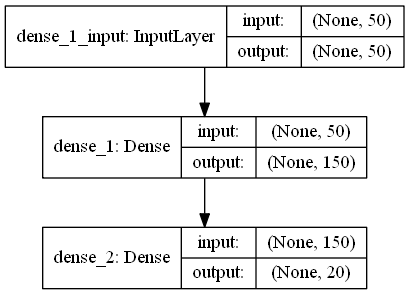
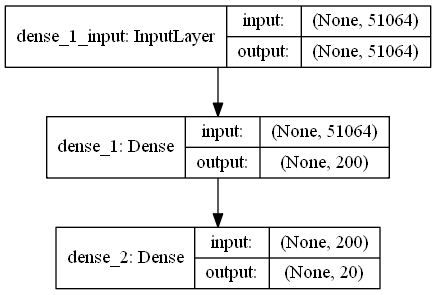
More nnet stuff, also added single space to the single dir

diff --git a/src/pipelines/pipeline_single_dir.py b/src/pipelines/pipeline_single_dir.py
@@ -249,7 +249,7 @@ def direction_pipeline(dct_unchanged, dct, bow, dir_min_freq, dir_max_freq, file
 
 def main(data_type, raw_folder, processed_folder,proj_folder="",  grams=0, model_type="LinearSVM", dir_min_freq=0.001,
          dir_max_freq=0.95, dev_percent=0.2, score_metric="avg_f1", max_depth=None, multiclass="OVR", LR=False, bonus_fn="",
-         rewrite_all = False, hp_top_freq=None, hp_top_dir=None):
+         rewrite_all = False, hp_top_freq=None, hp_top_dir=None, use_space=None, use_space_name=None):
     pipeline_fn = "num_stw"
     if data_type == "newsgroups":
         name_of_class = ["Newsgroups"]
@@ -417,6 +417,8 @@ def main(data_type, raw_folder, processed_folder,proj_folder="",  grams=0, model
                     print("WARNING, bonus fn active")
                 if LR:
                     final_fn = pipeline_fn + "_LR_"+ space_names[s]
+                elif use_space is not None:
+                    final_fn = pipeline_fn + "_US_"+ use_space_name
                 else:
                     final_fn = pipeline_fn + "_"+ space_names[s]
 
@@ -432,20 +434,34 @@ def main(data_type, raw_folder, processed_folder,proj_folder="",  grams=0, model
                 dct = p_corpus.getBowDct()
                 dct_unchanged = p_corpus.getBowDct()
 
-                if data_type == "movies" or data_type == "placetypes":
-                    if len(spaces[s][0]) == 200 and "MDS" in space_names[s]:
-                        classifier_fn = final_fn + "_" + name_of_class[i] + "_" + multiclass
-                        tsrd = pipeline(final_fn, spaces[s], bow, dct, classes, class_names, word_list, processed_folder, dims, kfold_hpam_dict, hpam_dict,
-                     model_type=model_type, dev_percent=dev_percent, rewrite_all="2019 11 20 15 19", remove_stop_words=True,
-                     score_metric=score_metric, auroc=False, dir_min_freq=dir_min_freq, dir_max_freq=dir_max_freq, name_of_class=name_of_class[ci], classifier_fn = classifier_fn,
-                                 mcm=multi_class_method, ppmi=ppmi_unf_matrix, dct_unchanged=dct_unchanged, pipeline_hpam_dict=pipeline_hpam_dict, space_name=space_names[s], data_type=data_type)
-                else:
-
+                if use_space is not None:
                     classifier_fn = pipeline_fn + "_" + multiclass
-                    tsrd = pipeline(final_fn, spaces[s], bow, dct, classes, class_names, word_list, processed_folder, dims, kfold_hpam_dict, hpam_dict,
-                     model_type=model_type, dev_percent=dev_percent, rewrite_all=rewrite_all, remove_stop_words=True,
-                     score_metric=score_metric, auroc=False, dir_min_freq=dir_min_freq, dir_max_freq=dir_max_freq, name_of_class=name_of_class[ci], classifier_fn = classifier_fn,
-                             mcm=multi_class_method, ppmi=ppmi_unf_matrix, dct_unchanged=dct_unchanged, pipeline_hpam_dict=pipeline_hpam_dict, space_name=space_names[s], data_type=data_type)
+                    tsrd = pipeline(final_fn, use_space, bow, dct, classes, class_names, word_list, processed_folder,
+                                    dims, kfold_hpam_dict, hpam_dict,
+                                    model_type=model_type, dev_percent=dev_percent, rewrite_all=rewrite_all,
+                                    remove_stop_words=True,
+                                    score_metric=score_metric, auroc=False, dir_min_freq=dir_min_freq,
+                                    dir_max_freq=dir_max_freq, name_of_class=name_of_class[ci],
+                                    classifier_fn=classifier_fn,
+                                    mcm=multi_class_method, ppmi=ppmi_unf_matrix, dct_unchanged=dct_unchanged,
+                                    pipeline_hpam_dict=pipeline_hpam_dict, space_name=use_space_name,
+                                    data_type=data_type)
+                    exit()
+                else:
+                    if data_type == "movies" or data_type == "placetypes":
+                        if len(spaces[s][0]) == 200 and "MDS" in space_names[s]:
+                            classifier_fn = final_fn + "_" + name_of_class[i] + "_" + multiclass
+                            tsrd = pipeline(final_fn, spaces[s], bow, dct, classes, class_names, word_list, processed_folder, dims, kfold_hpam_dict, hpam_dict,
+                         model_type=model_type, dev_percent=dev_percent, rewrite_all="2019 11 20 15 19", remove_stop_words=True,
+                         score_metric=score_metric, auroc=False, dir_min_freq=dir_min_freq, dir_max_freq=dir_max_freq, name_of_class=name_of_class[ci], classifier_fn = classifier_fn,
+                                     mcm=multi_class_method, ppmi=ppmi_unf_matrix, dct_unchanged=dct_unchanged, pipeline_hpam_dict=pipeline_hpam_dict, space_name=space_names[s], data_type=data_type)
+                    else:
+
+                        classifier_fn = pipeline_fn + "_" + multiclass
+                        tsrd = pipeline(final_fn, spaces[s], bow, dct, classes, class_names, word_list, processed_folder, dims, kfold_hpam_dict, hpam_dict,
+                         model_type=model_type, dev_percent=dev_percent, rewrite_all=rewrite_all, remove_stop_words=True,
+                         score_metric=score_metric, auroc=False, dir_min_freq=dir_min_freq, dir_max_freq=dir_max_freq, name_of_class=name_of_class[ci], classifier_fn = classifier_fn,
+                                 mcm=multi_class_method, ppmi=ppmi_unf_matrix, dct_unchanged=dct_unchanged, pipeline_hpam_dict=pipeline_hpam_dict, space_name=space_names[s], data_type=data_type)
 
                 tsrds.append(tsrd)
         # Make the combined CSV of all the dims of all the space types
@@ -460,32 +476,35 @@ def main(data_type, raw_folder, processed_folder,proj_folder="",  grams=0, model
 
 if __name__ == '__main__':
     classifiers = ["LinearSVM", "DecisionTree1", "DecisionTree2", "DecisionTree3"]
-    data_types = [ "placetypes"]#""newsgroups", "reuters", "sentiment"] #,
+    data_types = [ "newsgroups"]#""newsgroups", "reuters", "sentiment"] #,
     doLR = False
     dminf = -1
     dmanf = -1
-
+    """
     x = np.load("../../data\processed\placetypes/rank/fil/num_stw_num_stw_200_MDS_ndcg_1000_5000_0_rank.npy")
-
+    """
     mcm = "OVR"
     bonus_fn = ""
     rewrite_all = False
+    use_space = np.load("E:\PhD\Code\ThesisPipeline\ThesisPipeline\data\processed/newsgroups\mln\mln/"
+                        "num_stw_ppmi_Dev_6223MClass_Balanced_5_Activ_relu_Dropout_0.5_Hsize_500_mlnrep.npy")
+    use_space_name = "5_Activ_relu_Dropout_0.5_Hsize_500_mlnrep"
     for j in range(len(data_types)):
         if data_types[j] == "placetypes":
-            hp_top_freq = [5000, 10000, 20000]
-            hp_top_dir = [1000, 2000]
+            hp_top_freq = [10000]
+            hp_top_dir = [2000]
         elif data_types[j] == "reuters":
-            hp_top_freq = [5000, 10000, 20000]
-            hp_top_dir = [1000, 2000]
+            hp_top_freq = [10000]
+            hp_top_dir = [2000]
         elif data_types[j] == "sentiment":
-            hp_top_freq = [5000, 10000, 20000]
-            hp_top_dir = [1000, 2000]
+            hp_top_freq = [10000]
+            hp_top_dir = [2000]
         elif data_types[j] == "newsgroups":
-            hp_top_freq = [ 5000, 10000, 20000]
-            hp_top_dir = [ 1000, 2000]
+            hp_top_freq = [10000]
+            hp_top_dir = [2000]
         elif data_types[j] == "movies":
-            hp_top_freq = [5000, 10000, 20000]
-            hp_top_dir = [1000, 2000]
+            hp_top_freq = [10000]
+            hp_top_dir = [2000]
         for i in range(len(classifiers)):
             if "1" in classifiers[i]:
                 max_depths = 1
@@ -498,4 +517,4 @@ if __name__ == '__main__':
             main(data_types[j], "../../data/raw/"+data_types[j]+"/",  "../../data/processed/"+data_types[j]+"/", proj_folder="../../data/proj/"+data_types[j]+"/",
                                     grams=0, model_type=classifiers[i], dir_min_freq=dminf, dir_max_freq=dmanf, dev_percent=0.2,
                                     score_metric="avg_f1", max_depth=max_depths, multiclass=mcm, LR=doLR, bonus_fn=bonus_fn, rewrite_all=rewrite_all,
-                 hp_top_dir=hp_top_dir, hp_top_freq=hp_top_freq)
+                 hp_top_dir=hp_top_dir, hp_top_freq=hp_top_freq, use_space=use_space, use_space_name=use_space_name)

diff --git a/tex - Copy/chapter5.tex b/tex - Copy/chapter5.tex
@@ -133,7 +133,7 @@ When obtaining the directions, we set the frequency cut-off to the top 10,000 wo
 
 We investigate the task using the newsgroups as it gives a good example of a representation that contains many different concepts and aspects of domain knowledge, as well as a well defined classification task that if achieved well on clearly demonstrates the representation contains a good amount of information in the domain. The place-types task does not contain too many entities, making it unreliable for neural network training and the reuters task has similar problems. One alternative would be the movies domain, but as identifying the genres of movies is functionally similar to the newsgroups task, we assume that any results found for the newsgroups can easily generalize to any classification task.
 
-To learn the feed-forward networks, we take the highest performing representation found in Table \ref{bg:repsresults} for depth-3 decision trees and use them as input representations.  For the newsgroups, this is the size 100 Doc2Vec space. Then, we set the hidden-layer to be the same size as the input representation and use a non-linear activation function.  The reasoning behind this is twofold: First, we can assume that the representation that performs well on depth-three decision trees contain good interpretable concepts that can be meaningfully adjusted by the network, and second that this allows for easy comparison between the original representation and the representation taken from the hidden layer of the network. These feedforward networks are simple, but do achieve stronger results than the linear SVM. These act as a "baseline network", by which we can see how fundamentally the most simple neural network representation may work. 
+To learn the feed-forward networks, we take the highest performing representation found in Table \ref{bg:repsresults} for clusters on depth-3 decision trees and use them as input representations.   For the newsgroups, this is the size 100 Doc2Vec space. Then, we set the hidden-layer to be the same size as the input representation and use a non-linear activation function.  The reasoning behind this is twofold: First, we can assume that the representation that performs well on depth-three decision trees contain good interpretable concepts that can be meaningfully adjusted by the network, and second that this allows for easy comparison between the original representation and the representation taken from the hidden layer of the network. These feedforward networks are simple, but do achieve stronger results than the linear SVM. These act as a "baseline network", by which we can see how fundamentally the most simple neural network representation may work. 
 
 The primary difference between the linear SVM results and the results achieved using this neural network is that the neural network used is multi-label, meaning that all of the classification objectives are trained at the same time. Following results showing that simple neural networks can still perform well on text classification without needing a complex architecture  \cite{Lakhotia2018} \cite{Nam2014}, we use a neural network with the following changes: Cross-entropy loss, Adagrad trainer with default parameters, Dropout, Softmax activation on the output layer, ReLu or tanH activation function. We tune the network for the following values: 
 

diff --git a/src/model/mln.py b/src/model/mln.py
@@ -13,6 +13,7 @@ from keras.callbacks import TensorBoard
 from keras.initializers import Identity, Zeros, Ones, Constant, Orthogonal
 from keras.utils.vis_utils import plot_model
 from util import nnet
+from scipy import sparse
 import os
 class MultiLabelNetwork(Method.ModelMethod):
     max_features = None
@@ -61,13 +62,22 @@ class MultiLabelNetwork(Method.ModelMethod):
     def process(self):
         self.model = Sequential()
 
+        x_train_dim = len(self.x_train[0])
+        """
+        # If it's sparse
+        if(len(self.x_train[0])) > 10000:
+            x_train_dim = len(self.x_train[0])
+            x_test_dim = len(self.x_test[0])
+            self.x_train = sparse.csr_matrix(self.x_train)
+            self.x_test  = sparse.csr_matrix(self.x_test)
+        """
         if self.hidden_layer_size < 100:
-            hidden_size = int(len(self.x_train[0]) * self.hidden_layer_size)
+            hidden_size = int(x_train_dim * self.hidden_layer_size)
         else:
             hidden_size = self.hidden_layer_size
         print("Hidden layer")
         self.model.add(
-            Dense(output_dim=hidden_size, input_dim=len(self.x_train[0]), activation=self.activation_function,
+            Dense(output_dim=hidden_size, input_dim=x_train_dim, activation=self.activation_function,
                   init="glorot_uniform"))
 
         #self.model.add(Dropout(rate=self.dropout))
@@ -85,7 +95,8 @@ class MultiLabelNetwork(Method.ModelMethod):
 
         # self.ppmi_boc.transpose()
         self.model.fit(self.x_train, self.y_train, nb_epoch=self.epoch, batch_size=self.batch_size, verbose=1)
-        self.hidden_layer_rep.value = nnet.getFirstLayer(self.model, self.space)
+        if self.get_rep:
+            self.hidden_layer_rep.value = nnet.getFirstLayer(self.model, self.space)
 
         self.test_proba.value = self.model.predict(self.x_test)
         self.test_predictions.value = nnet.probaToBinary(self.test_proba.value)

diff --git a/src/pipelines/pipeline_feedforward_network.py b/src/pipelines/pipeline_feedforward_network.py
@@ -136,10 +136,10 @@ def main(data_type, raw_folder, processed_folder, proj_folder="", grams=0, model
     min_samples_split = [2]
 
 
-    epoch = [100, 200, 300]
+    epoch = [100, 200, 300, 400]
     activation_function = ["relu", "tanh"]
     dropout = [0.1, 0.25, 0.5, 0.75]
-    hidden_layer_size = [0.5, 1,  2, 3]
+    hidden_layer_size = [0.5, 1,  2, 3, 4]
 
 
     # Run a pipeline that retains numbers and removes stopwords
@@ -392,8 +392,13 @@ def main(data_type, raw_folder, processed_folder, proj_folder="", grams=0, model
                                   "use_weights": use_weights}
 
             if use_bow is True:
-                space = bow
-                kfold_hpam_dict["hidden_layer_size"] = [1000, 500, 200]
+
+                space_names[i][j] = "num_stw_ppmi"
+                space = sp.load_npz("E:\PhD\Code\ThesisPipeline\ThesisPipeline\data\processed/newsgroups/bow/"+space_names[i][j]+".npz").toarray()
+                kfold_hpam_dict["hidden_layer_size"] = [500,200,100]
+                kfold_hpam_dict["epoch"] = [5]
+                kfold_hpam_dict["activation_function"] = ["relu"]
+                kfold_hpam_dict["dropout"] = [ 0.5]
             print("got here")
             tsrd = pipeline(space_names[i][j], classes, class_names, processed_folder, kfold_hpam_dict,
                             model_type=model_type, dev_percent=dev_percent, rewrite_all="2019 11 21 07 18", score_metric=score_metric,
@@ -416,7 +421,7 @@ def main(data_type, raw_folder, processed_folder, proj_folder="", grams=0, model
 
 def init():
     classifiers = ["DecisionTree3"]
-    data_type = [ "newsgroups"]
+    data_type = [ "sentiment"]
     use_clusters = [True]
     use_bow = False
     print("got here")

diff --git a/src/pipelines/KFoldHyperParameter.py b/src/pipelines/KFoldHyperParameter.py
@@ -172,7 +172,7 @@ class MasterHParam(Method):
 
         elif self.model_type == "mln":
 
-            batch_size = 200
+            batch_size = 100
 
             param_fn = "MClass_Balanced_" + str(all_p["epoch"]) + \
                        "_Activ_" + str( all_p["activation_function"]) + \
